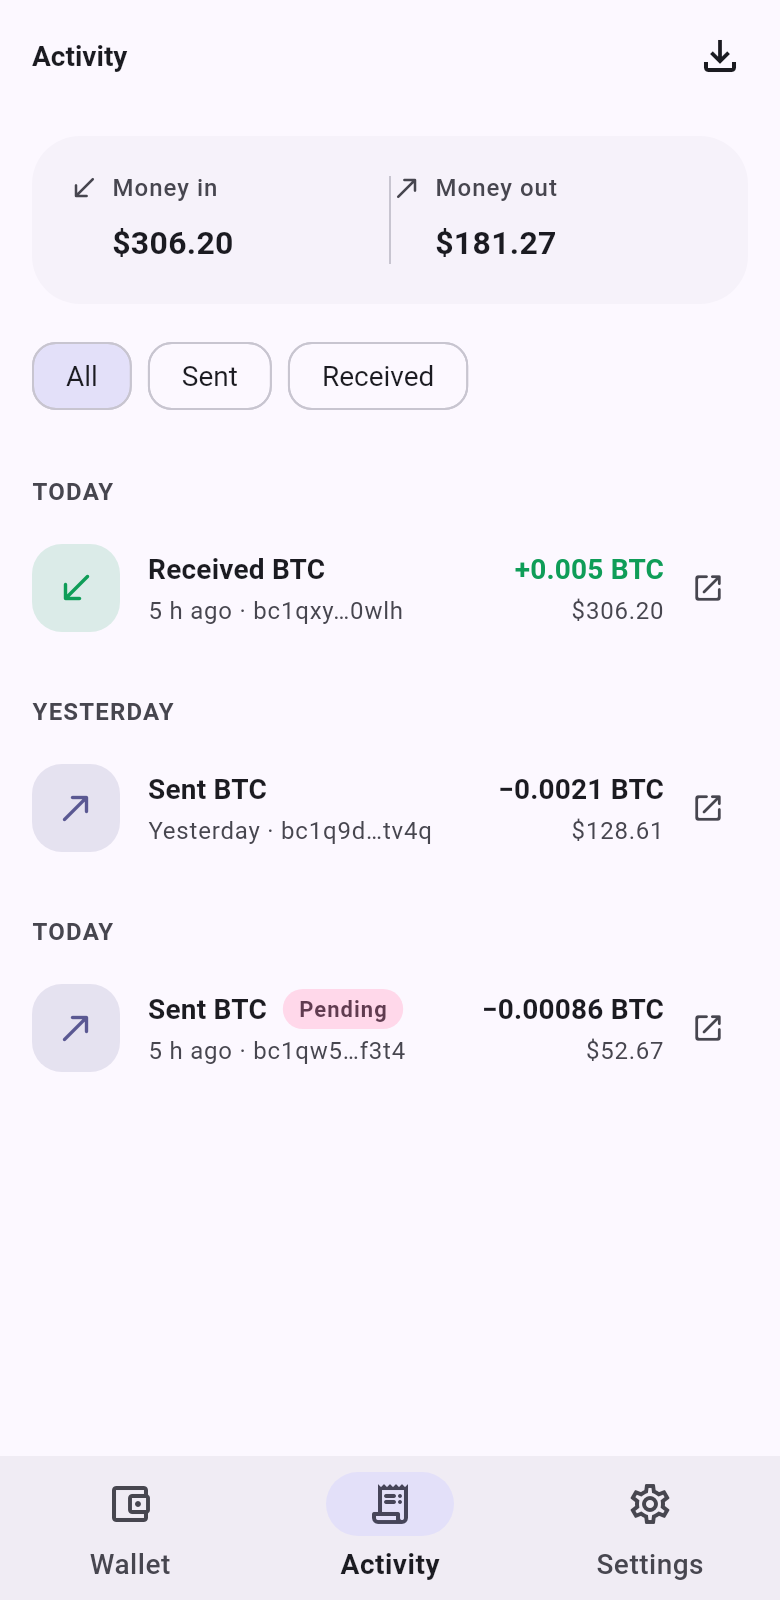
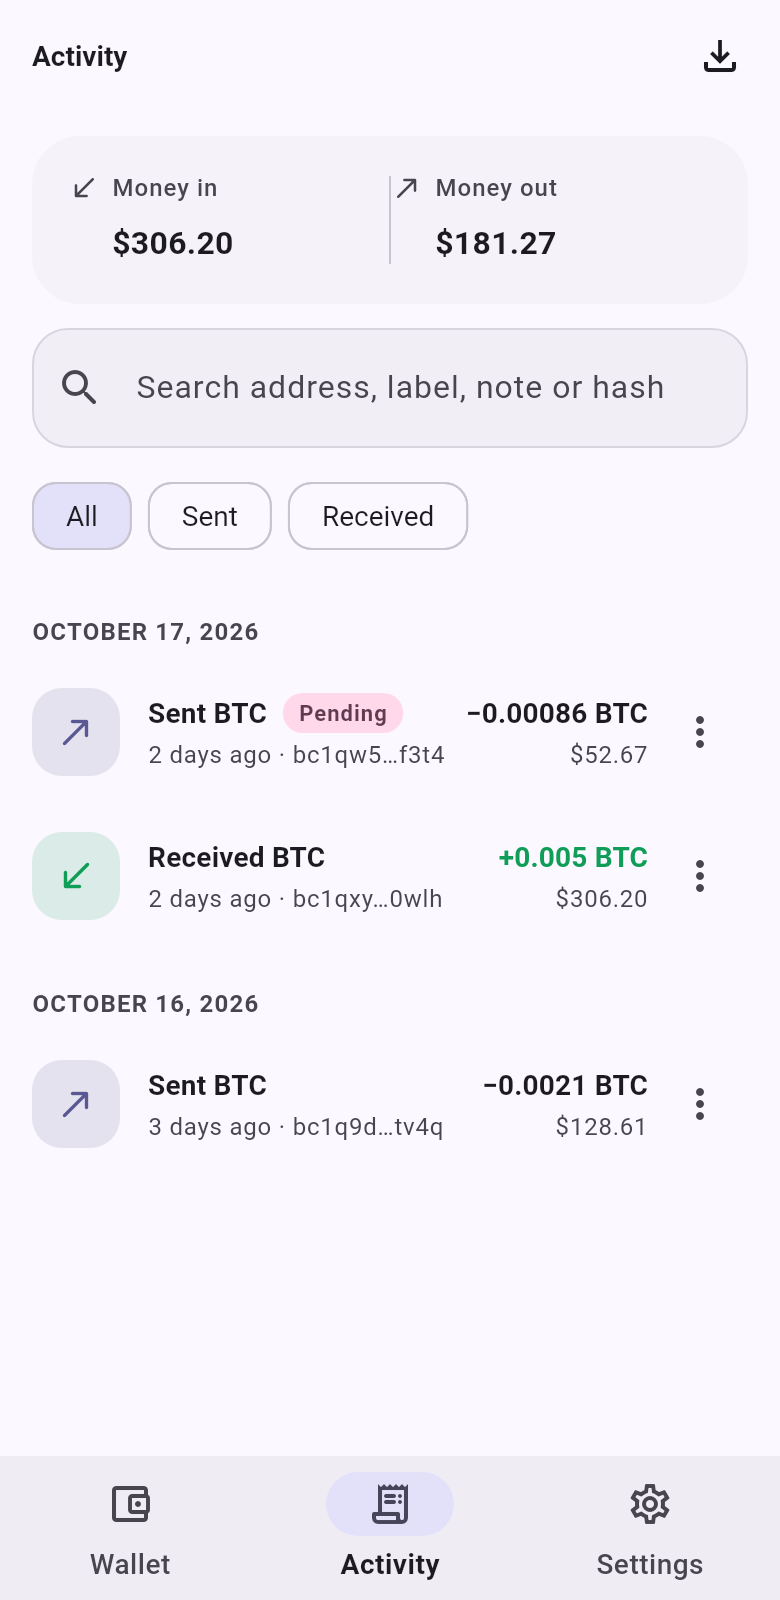
Refresh README screenshots; screenshot fake serves activity pages
Claude-Session: https://claude.ai/code/session_011YCTngEHH6L5rSgL9sFHiJ

diff --git a/tool/screenshots_test.dart b/tool/screenshots_test.dart
@@ -212,6 +212,15 @@ class _FakeChainApi extends ChainApi {
   }
 
   @override
+  Future<ActivityPage> fetchActivityPage(
+    NetworkConfig network,
+    String address, {
+    ActivityCursor? after,
+  }) async {
+    return ActivityPage(native: await fetchTransactions(network, address));
+  }
+
+  @override
   Future<List<TokenBalance>> fetchTokenBalances(
     NetworkConfig network,
     String address,
